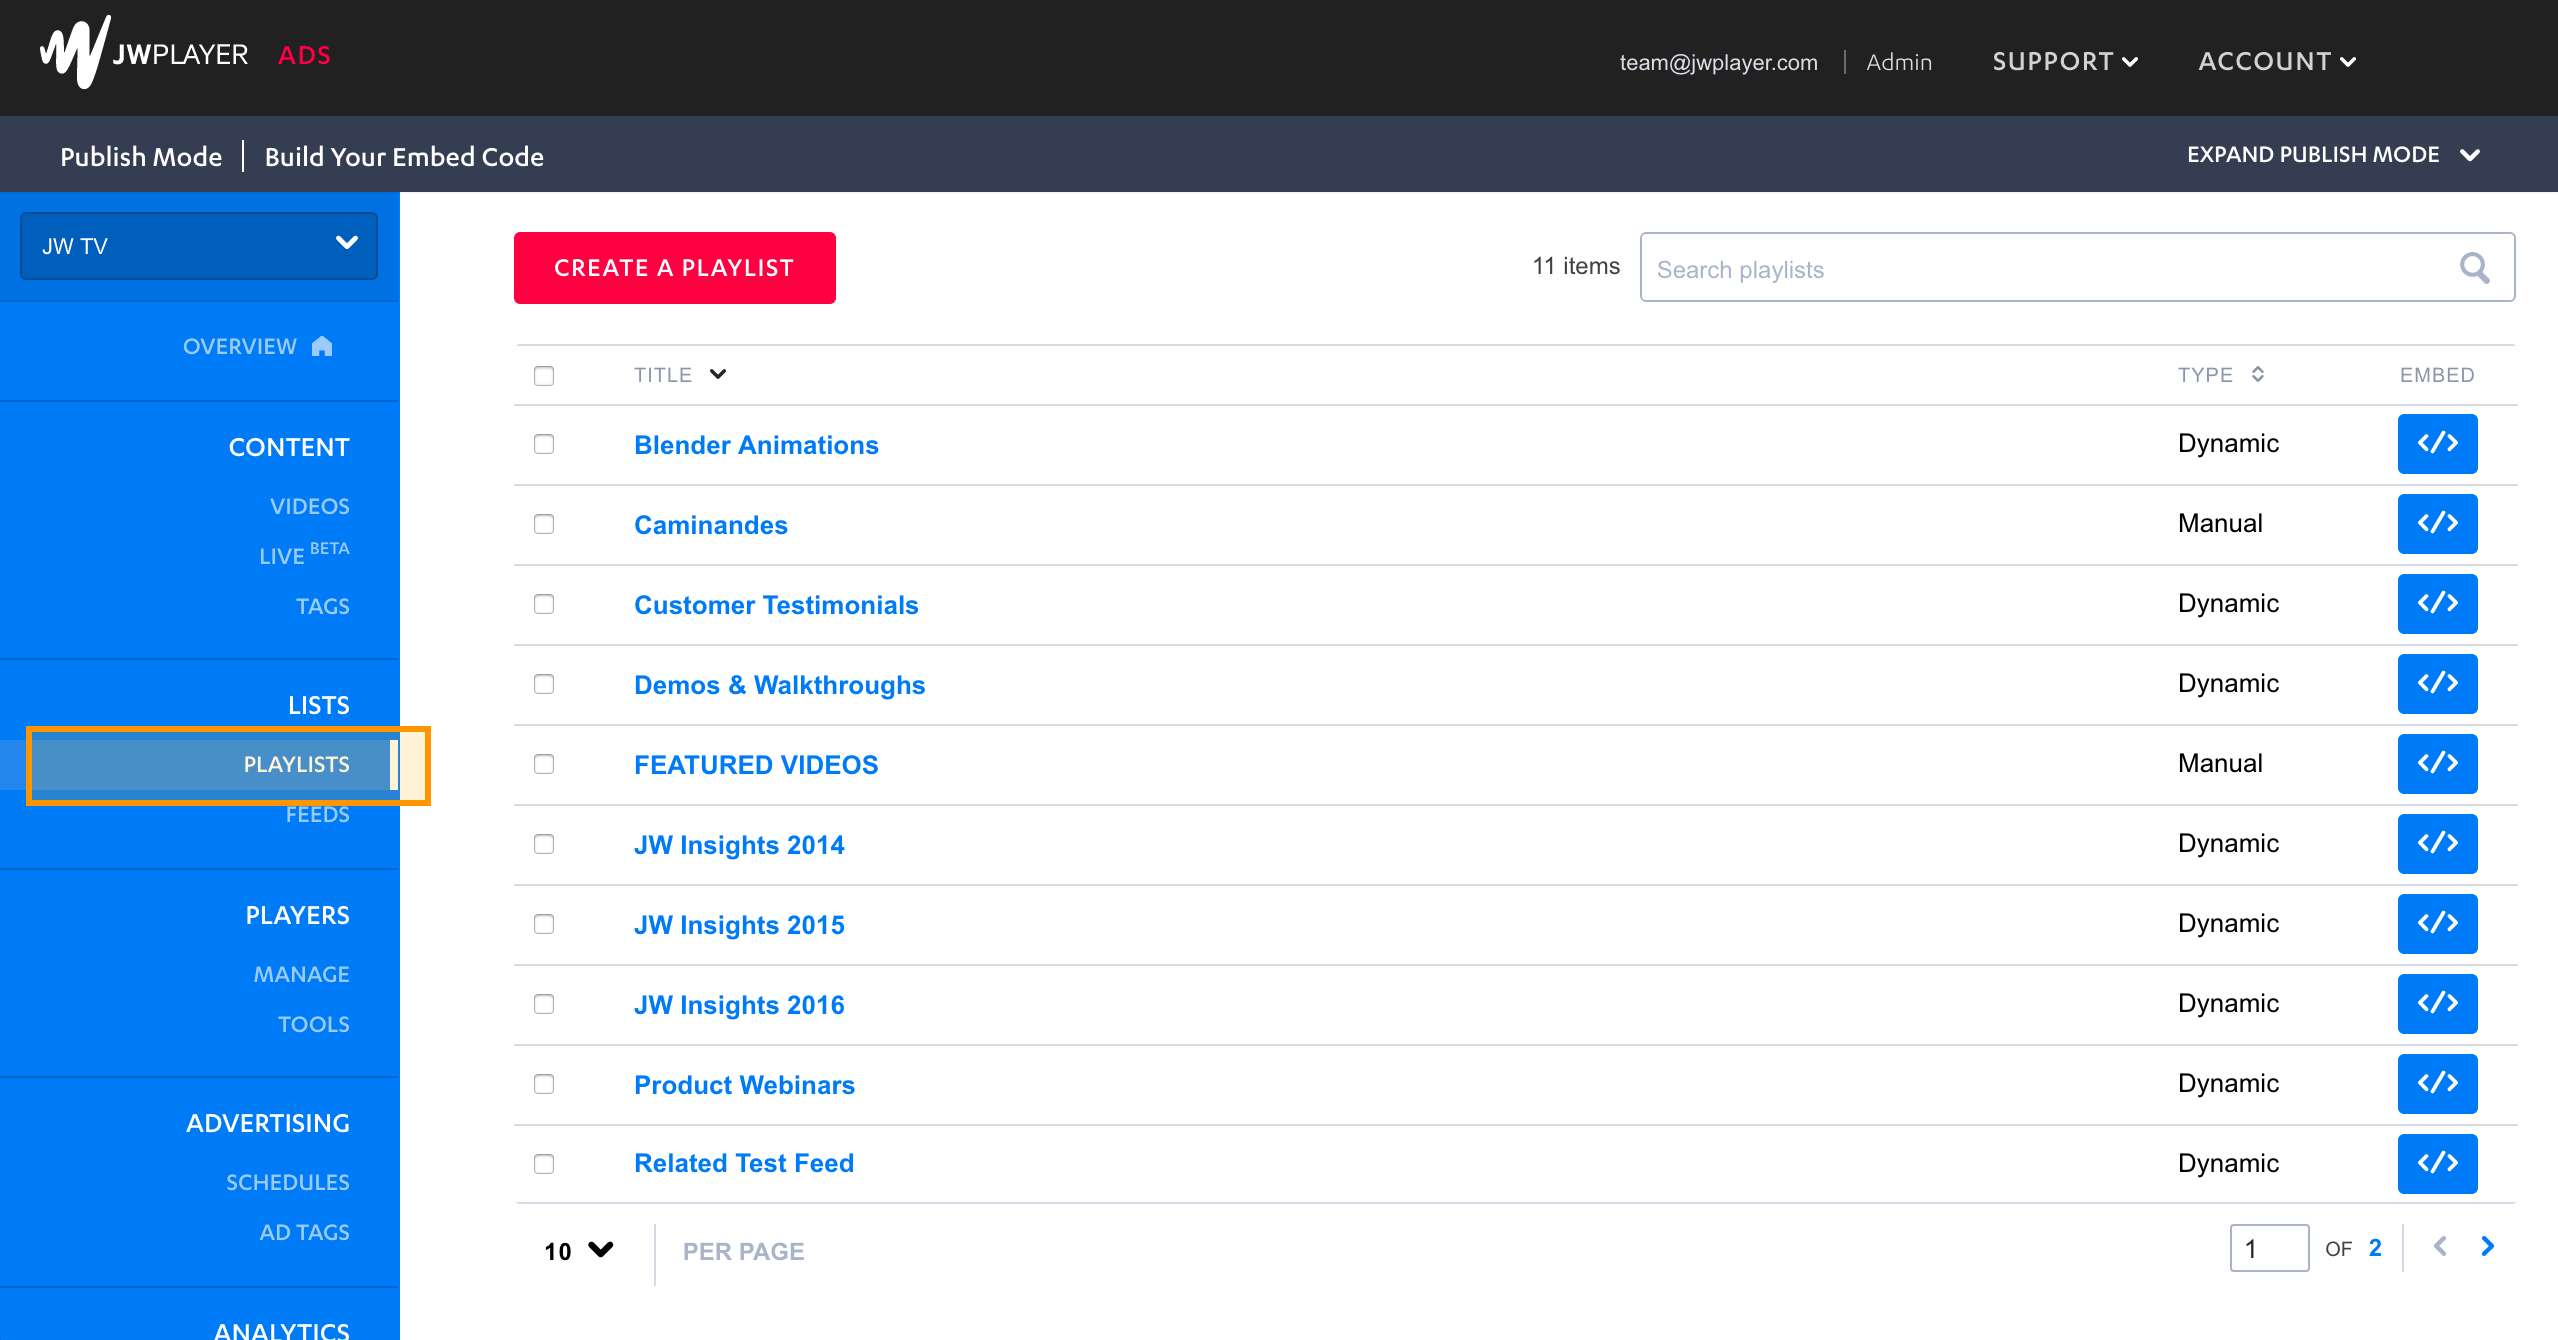
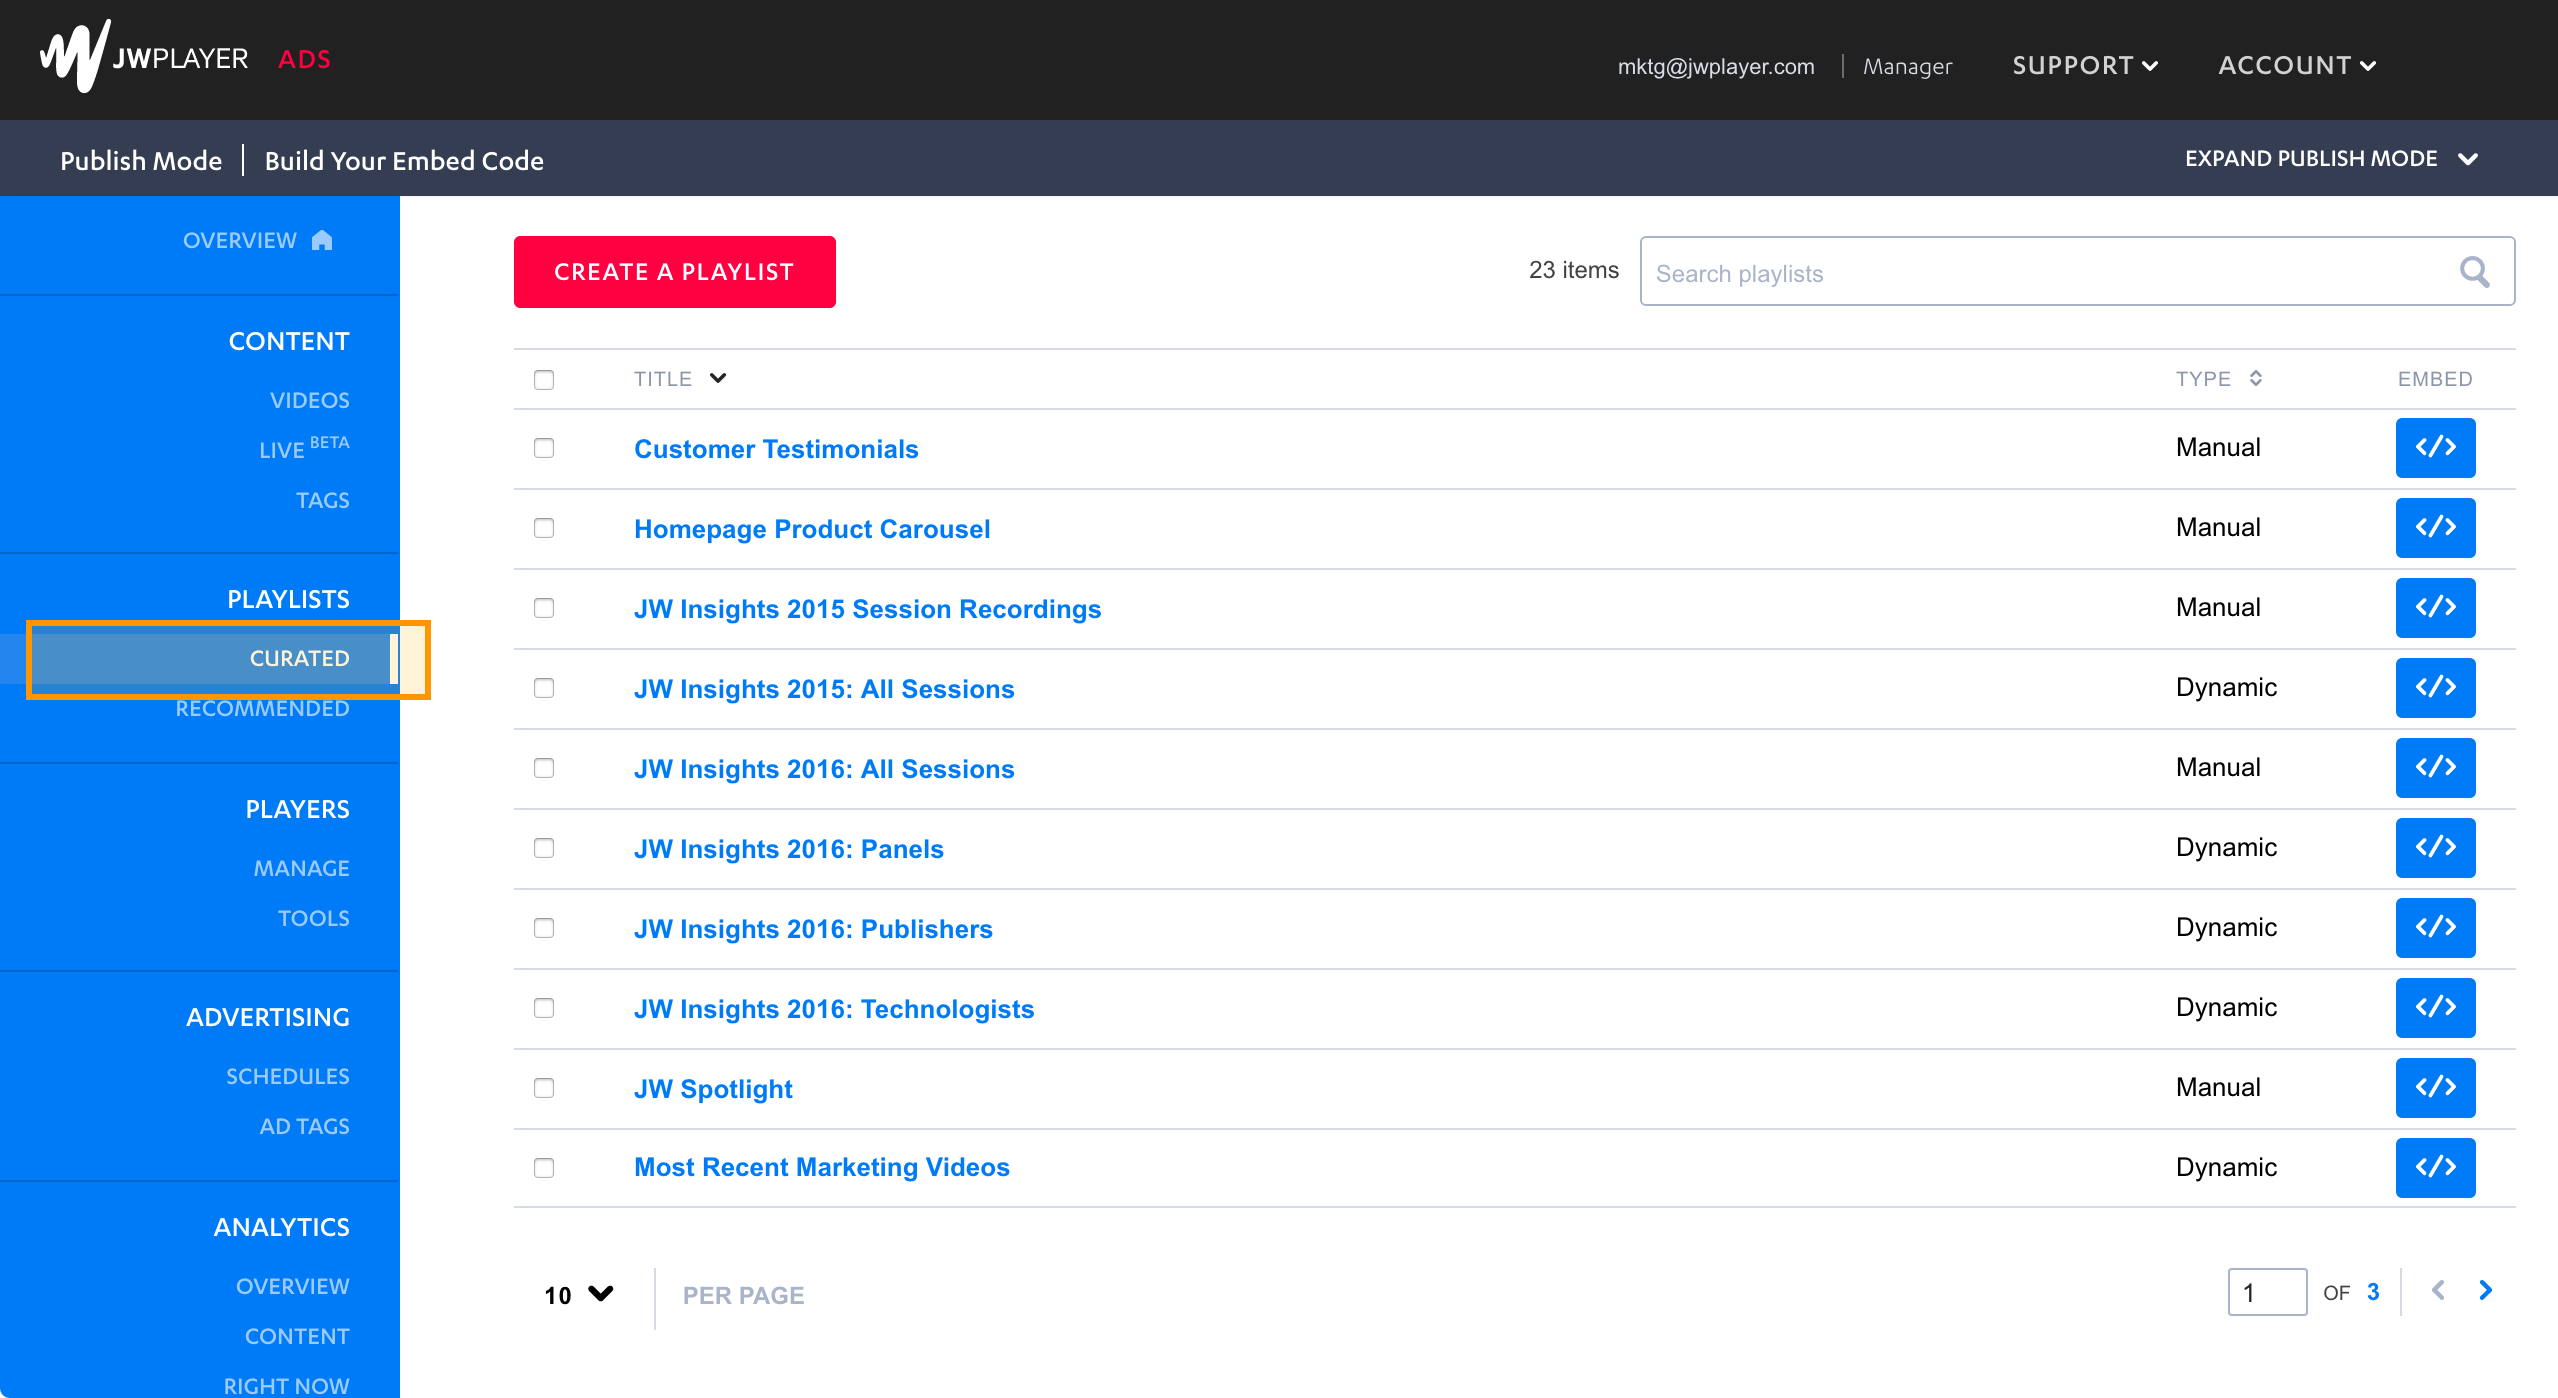
updated with josies edits

diff --git a/docs/jw_showcase/apple_tv/jw_showcase_for_apple_tv.md b/docs/jw_showcase/apple_tv/jw_showcase_for_apple_tv.md
@@ -2,7 +2,7 @@
 
 JW Showcase is a sample application that leverages playlists from JW Platform to distribute your content across platforms. This guide will provide instructions for getting set up with our Apple TV app.
 
-We recommend cloning the JW Showcase for Apple TV source code within Github. Modifying the cloned source gives you greater control over the app framework and allows you to keep your Showcase app in sync with our source repository as we add new features and bug fixes.
+To get started, we recommend cloning the JW Showcase for Apple TV source code within Github. Modifying the cloned source gives you greater control over the app framework and allows you to keep your Showcase app in sync with our source repository as we add new features and bug fixes.
 
 !!!important
 The JW Showcase for Apple TV app is only supported on 4th Generation (2015) Apple TV devices.
@@ -18,7 +18,7 @@ Within the `jwplayer-appletv-web-app/resources/configs` folder, you'll need to r
 
 ![JW Showcase Config](/images/appletv-configs.png)
 
-To locate your account API key, navigate to "Properties" under "Account" and click the settings icon next to the property you wish to access content from. Your API key can be copied from the "API Credentials" section.
+To locate your account API key [in the Dashboard](https://dashboard.jwplayer.com/), navigate to "Properties" under "Account. Your API key can be copied from the "**API Credentials**" section.
 
 ![JW Dashboard API Key](/images/account-api-key.png)
 
@@ -33,7 +33,7 @@ Next, open the config.json file in any text editor and replace the default playl
 	  "featuredPlaylist": "1AxTdxJn",
 
 
-Navigate to “Playlists” under the “Lists” section of the dashboard.
+Navigate to “**Curated**” under the “**Playlists**” section of the dashboard.
 
 ![JW Dashboard Playlists](/images/dashboard-playlists.png)
 
@@ -49,7 +49,7 @@ In the config.json file, you can set the background color of the app, using a he
 "backgroundColor": "#7e0023",
 ```
 
-The config.json also looks for a "splashScreen" and "bannerImage" that can be replaced with your own images.
+The config.json also looks for a "**splashScreen**" and "**bannerImage**" that can be replaced with your own images in the same directory.
 
 ```
 "splashScreen": "images/jw-main.png",
@@ -59,7 +59,7 @@ The config.json also looks for a "splashScreen" and "bannerImage" that can be re
 Image | Description | Recommended Size
 ------------ | ------------- | -------------
 **splashScreen** | Shown while app is loading | 1920x1080
-**bannerImage** | Header image show on app home screen | 1920x400
+**bannerImage** | Header image shown on app home screen | 1920x400
 
 ##Xcode Configuration
 
@@ -69,11 +69,11 @@ Apple's developer tool, Xcode is required to configure JW Showcase for Apple TV
 
 Open the `jwplayer-appletv-tvos-app/jwplayer-for-tv.xcodeproj` project in Xcode.
 
-Open the AppDelegate.swift file and change the baseURL variable to your web app server location.
+Open the `AppDelegate.swift` file and change the "**baseURL**" variable to your web app server location.
 
 ![Xcode Configuration Swift File](/images/xcode-swift-file.png)
 
-Next, open the Info.plist file and change the "jwplayer.account_key" value to your account API key and the "bundle name" to your desired app name.
+Next, open the Info.plist file and change the "**jwplayer.account_key**" value to your account API key and the "**bundle name**" to your desired app name.
 
 ![Xcode Configuration Info file](/images/xcode-info-file.png)
 

diff --git a/docs/jw_showcase/web/jw_showcase_for_web.md b/docs/jw_showcase/web/jw_showcase_for_web.md
@@ -25,11 +25,11 @@ Install project dependencies for Bower and Node:
 
 ##Configure Your App
 
-Open the JW Showcase source code in any text editor and navigate to the config.json file located in the “app” folder.
+Open the JW Showcase source code in any text editor and navigate to the config.json file located in the “**app**” folder.
 
 ![JW Showcase Config](/images/text-editor-config-json.png)
 
-Here you’ll need to replace the sample “player”, “featured playlists”, and “playlists” with media ids from your library within the JW Player dashboard.
+Here you’ll need to replace the sample “**player**”, “**featuredPlaylist**”, and “**playlists**” with media ids from your library within the JW Player dashboard.
 
     {
 	    "player": "DTYxzkKG",
@@ -47,11 +47,11 @@ Here you’ll need to replace the sample “player”, “featured playlists”,
 	    ]
     }
 
-To locate your player ID, navigate to “Tools” under the “Players” section of the dashboard.
+To locate your player ID, navigate to “**Tools**” under the “**Players**” section of the dashboard.
 
 ![JW Dashboard Tools](/images/dashboard-tools.png)
 
-Select the player you wish to use for your app under “Cloud Hosted Player Libraries”. The library URL for that player will contain your player ID.
+Select the player you wish to use for your app under “**Cloud Hosted Player Libraries**”. The library URL for that player will contain your player ID.
 
 ![JW Player Library](/images/cloud-hosted-player-library.png)
 
@@ -59,7 +59,7 @@ Replace the ID in the config.json file with your own, ie:
 
     "player": "DTYxzkKG",
 
-Next, to set your “featured playlist” and “playlists” for the app, navigate to “Playlists” under the “Lists” section of the dashboard.
+Next, to set your “**featured playlist**” and “**playlists**” for the app, navigate to “**Curated**” under the “**Lists**” section of the dashboard.
 
 ![JW Dashboard Playlists](/images/dashboard-playlists.png)
 
@@ -67,7 +67,7 @@ Click into any playlist you wish to feature in your app and grab the playlist ID
 
 ![JW Playlists ID](/images/playlist-id.png)
 
-Replace the “featured” and “playlists” IDs in the config.json file, ie:
+Replace the “**featuredPlaylist**” and “**playlists**” IDs in the config.json file, ie:
 
     "featuredPlaylist": "lrYLc95e",
 	    "playlists": [
@@ -78,7 +78,7 @@ Replace the “featured” and “playlists” IDs in the config.json file, ie:
 
 ##Branding Your App
 
-In the config.json file, you can choose between a “light” and “dark” theme option for the app to match your branding. You can also designate a site name, description, and footer text for your app.
+In the config.json file, you can choose between a “**light**” and “**dark**” theme option for the app to match your branding. You can also designate a site name, description, and footer text for your app.
 
     "theme": "light",
     "siteName": "JW Showcase",
